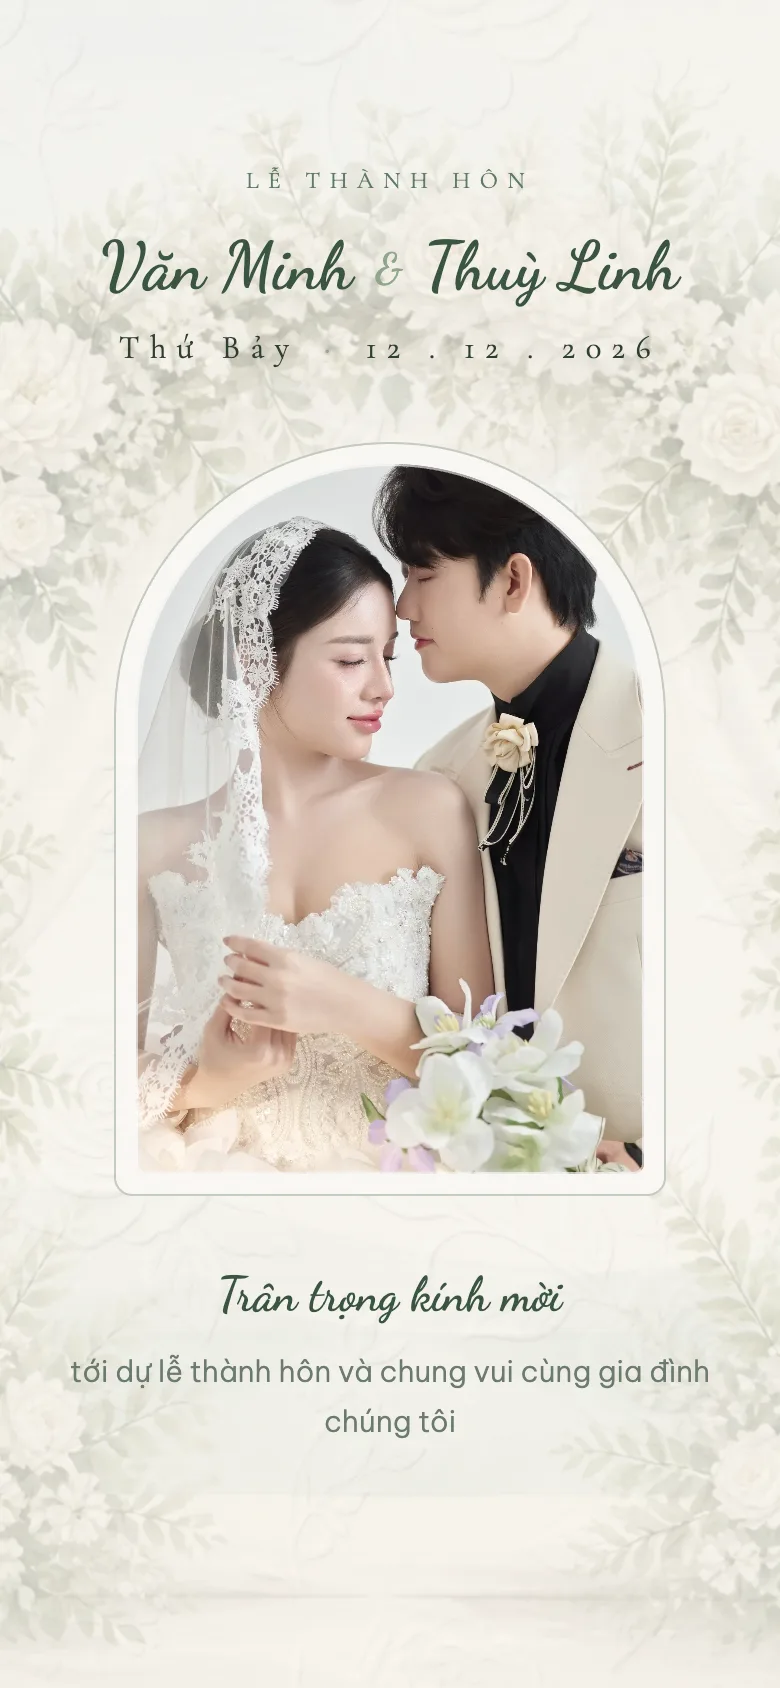
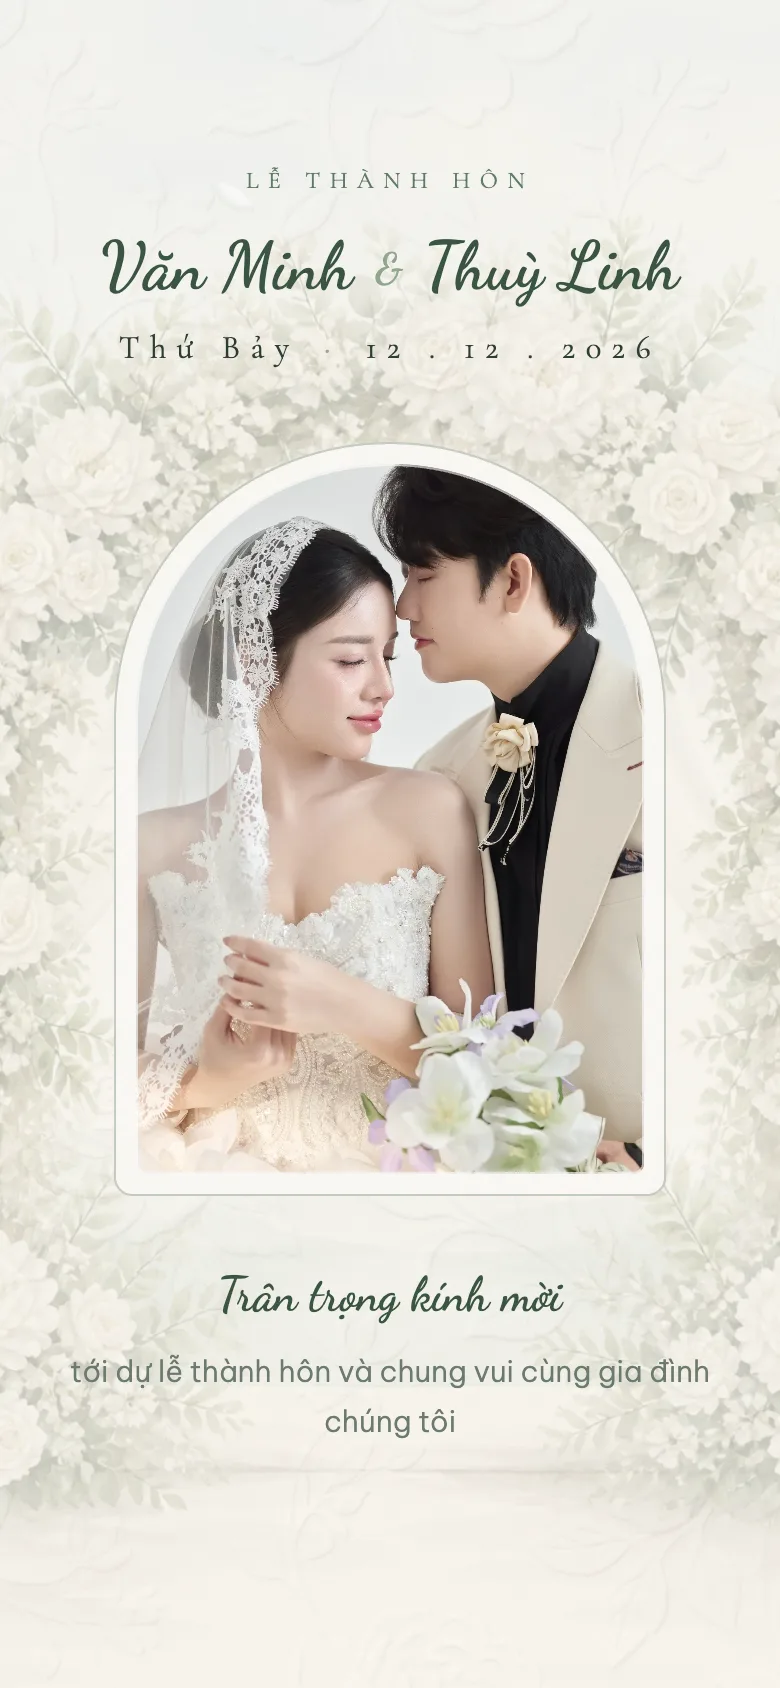
gen_262: nền hoa cố định khi cuộn (bỏ parallax), QR/RSVP/gia đình tự xếp dọc trên mobile, nút không gãy chữ, fix viền trắng bó hoa góc

diff --git a/products/Invitation/Wedding/gen_262_emboss-paper-sage/index.html b/products/Invitation/Wedding/gen_262_emboss-paper-sage/index.html
@@ -56,14 +56,12 @@ a { color: inherit; text-decoration: none; }
   background: var(--paper);
 }
 .bg-stage .bg-art {
-  position: absolute; left: 50%; top: 50%;
-  width: 120%; max-width: 720px; height: 120%;
-  transform: translate(-50%, -50%);
-  background: url('assets/bg-floral-arch.webp') center 38% / cover no-repeat;
+  position: absolute; inset: 0;
+  background: url('assets/bg-floral-arch.webp') center 40% / cover no-repeat;
   opacity: 0.62;
-  will-change: transform;
   filter: saturate(0.92);
 }
+@media (min-width: 700px) { .bg-stage .bg-art { background-size: auto 110%; } }
 .bg-stage .bg-paper {
   position: absolute; inset: 0;
   background: url('../../../shared/images/wedding/backgrounds/paper-emboss/bg-paper-emboss-cream-light.webp') center / 900px repeat;
@@ -136,7 +134,6 @@ section + section { padding-top: 0; }
   border: 1px solid var(--rule);
   border-radius: 4px;
   padding: clamp(34px, 8vw, 44px) clamp(20px, 5.5vw, 30px);
-  backdrop-filter: blur(3px); -webkit-backdrop-filter: blur(3px);
   box-shadow: 0 18px 50px rgba(58,85,66,0.06);
 }
 .card::before {
@@ -144,7 +141,9 @@ section + section { padding-top: 0; }
   content: ''; position: absolute; inset: 6px; border: 1px solid var(--rule-soft); border-radius: 2px; pointer-events: none;
 }
 .card-corner {
-  position: absolute; width: 140px; pointer-events: none; mix-blend-mode: multiply; opacity: 0.9;
+  position: absolute; width: 150px; pointer-events: none; mix-blend-mode: multiply; opacity: 0.95; z-index: 1;
+  -webkit-mask-image: radial-gradient(ellipse 80% 80% at 30% 30%, #000 40%, transparent 92%);
+  mask-image: radial-gradient(ellipse 80% 80% at 30% 30%, #000 40%, transparent 92%);
 }
 .card-corner.tl { left: -18px; top: -22px; }
 .card-corner.br { right: -18px; bottom: -22px; transform: rotate(180deg); }
@@ -215,7 +214,8 @@ section + section { padding-top: 0; }
 .time-cell small { display: block; color: var(--ink-soft); font-size: 0.82rem; margin-top: 2px; }
 
 /* ---------- Gia đình ---------- */
-.family { display: grid; grid-template-columns: 1fr 1fr; gap: 14px; margin-top: 22px; }
+.family { display: grid; grid-template-columns: repeat(auto-fit, minmax(150px, 1fr)); gap: 14px; margin-top: 22px; }
+.fam { min-width: 0; }
 .fam { text-align: center; padding: 16px 6px; }
 .fam .caps { display: block; margin-bottom: 10px; }
 .fam p { font-family: var(--font-heading); font-size: 1.02rem; color: var(--ink); line-height: 1.5; }
@@ -253,12 +253,12 @@ section + section { padding-top: 0; }
 .gallery-wide img { width: 100%; aspect-ratio: 4/3; object-fit: cover; object-position: center 30%; }
 
 /* ---------- Mừng cưới / Dress code ---------- */
-.gift-grid { display: grid; grid-template-columns: 1fr 1fr; gap: 14px; margin-top: 20px; }
-.gift { border: 1px solid var(--rule-soft); padding: 16px 10px; text-align: center; background: var(--veil-strong); }
+.gift-grid { display: grid; grid-template-columns: repeat(auto-fit, minmax(140px, 1fr)); gap: 12px; margin-top: 20px; }
+.gift { min-width: 0; border: 1px solid var(--rule-soft); padding: 16px 8px; text-align: center; background: var(--veil-strong); overflow-wrap: anywhere; }
 .gift .caps { display: block; margin-bottom: 10px; }
 .gift-qr { width: 92px; height: 92px; margin: 0 auto 10px; border: 1px solid var(--rule); padding: 6px; background: #fff; display: grid; place-items: center; }
 .gift-qr svg { width: 100%; height: 100%; }
-.gift p { font-family: var(--font-heading); font-size: 0.95rem; color: var(--ink); line-height: 1.5; }
+.gift p { font-family: var(--font-heading); font-size: 0.92rem; color: var(--ink); line-height: 1.5; }
 .gift p b { font-weight: 600; color: var(--sage); }
 .dress { display: flex; justify-content: center; gap: 12px; margin-top: 18px; }
 .swatch { width: 34px; height: 34px; border-radius: 50%; border: 2px solid var(--white); box-shadow: 0 0 0 1px var(--rule); }
@@ -273,12 +273,13 @@ section + section { padding-top: 0; }
 }
 .field input:focus, .field textarea:focus, .field select:focus { border-color: var(--sage); }
 .field textarea { resize: vertical; min-height: 72px; }
-.choices { display: grid; grid-template-columns: 1fr 1fr; gap: 10px; }
+.choices { display: grid; grid-template-columns: repeat(auto-fit, minmax(150px, 1fr)); gap: 10px; }
 .choice { position: relative; }
 .choice input { position: absolute; opacity: 0; }
 .choice span {
   display: block; text-align: center; padding: 12px 8px; border: 1px solid var(--rule);
-  font-family: var(--font-heading); letter-spacing: 0.18em; text-transform: uppercase; font-size: 0.7rem; color: var(--sage);
+  font-family: var(--font-heading); letter-spacing: 0.16em; text-transform: uppercase; font-size: 0.7rem; color: var(--sage);
+  white-space: nowrap; overflow: hidden; text-overflow: ellipsis;
   cursor: pointer; transition: all 0.3s;
 }
 .choice input:checked + span { background: var(--sage); color: var(--paper); border-color: var(--sage); }
@@ -559,17 +560,6 @@ section + section { padding-top: 0; }
   musicBtn.addEventListener('click', function () {
     if (bgm.paused) playMusic(); else { bgm.pause(); musicBtn.classList.remove('playing'); }
   });
-
-  /* ---------- Parallax nền ---------- */
-  var art = document.getElementById('bgArt'), ticking = false;
-  window.addEventListener('scroll', function () {
-    if (ticking) return; ticking = true;
-    requestAnimationFrame(function () {
-      var y = window.scrollY * 0.12;
-      art.style.transform = 'translate(-50%, calc(-50% + ' + y + 'px))';
-      ticking = false;
-    });
-  }, { passive: true });
 
   /* ---------- Reveal ---------- */
   var io = new IntersectionObserver(function (entries) {
